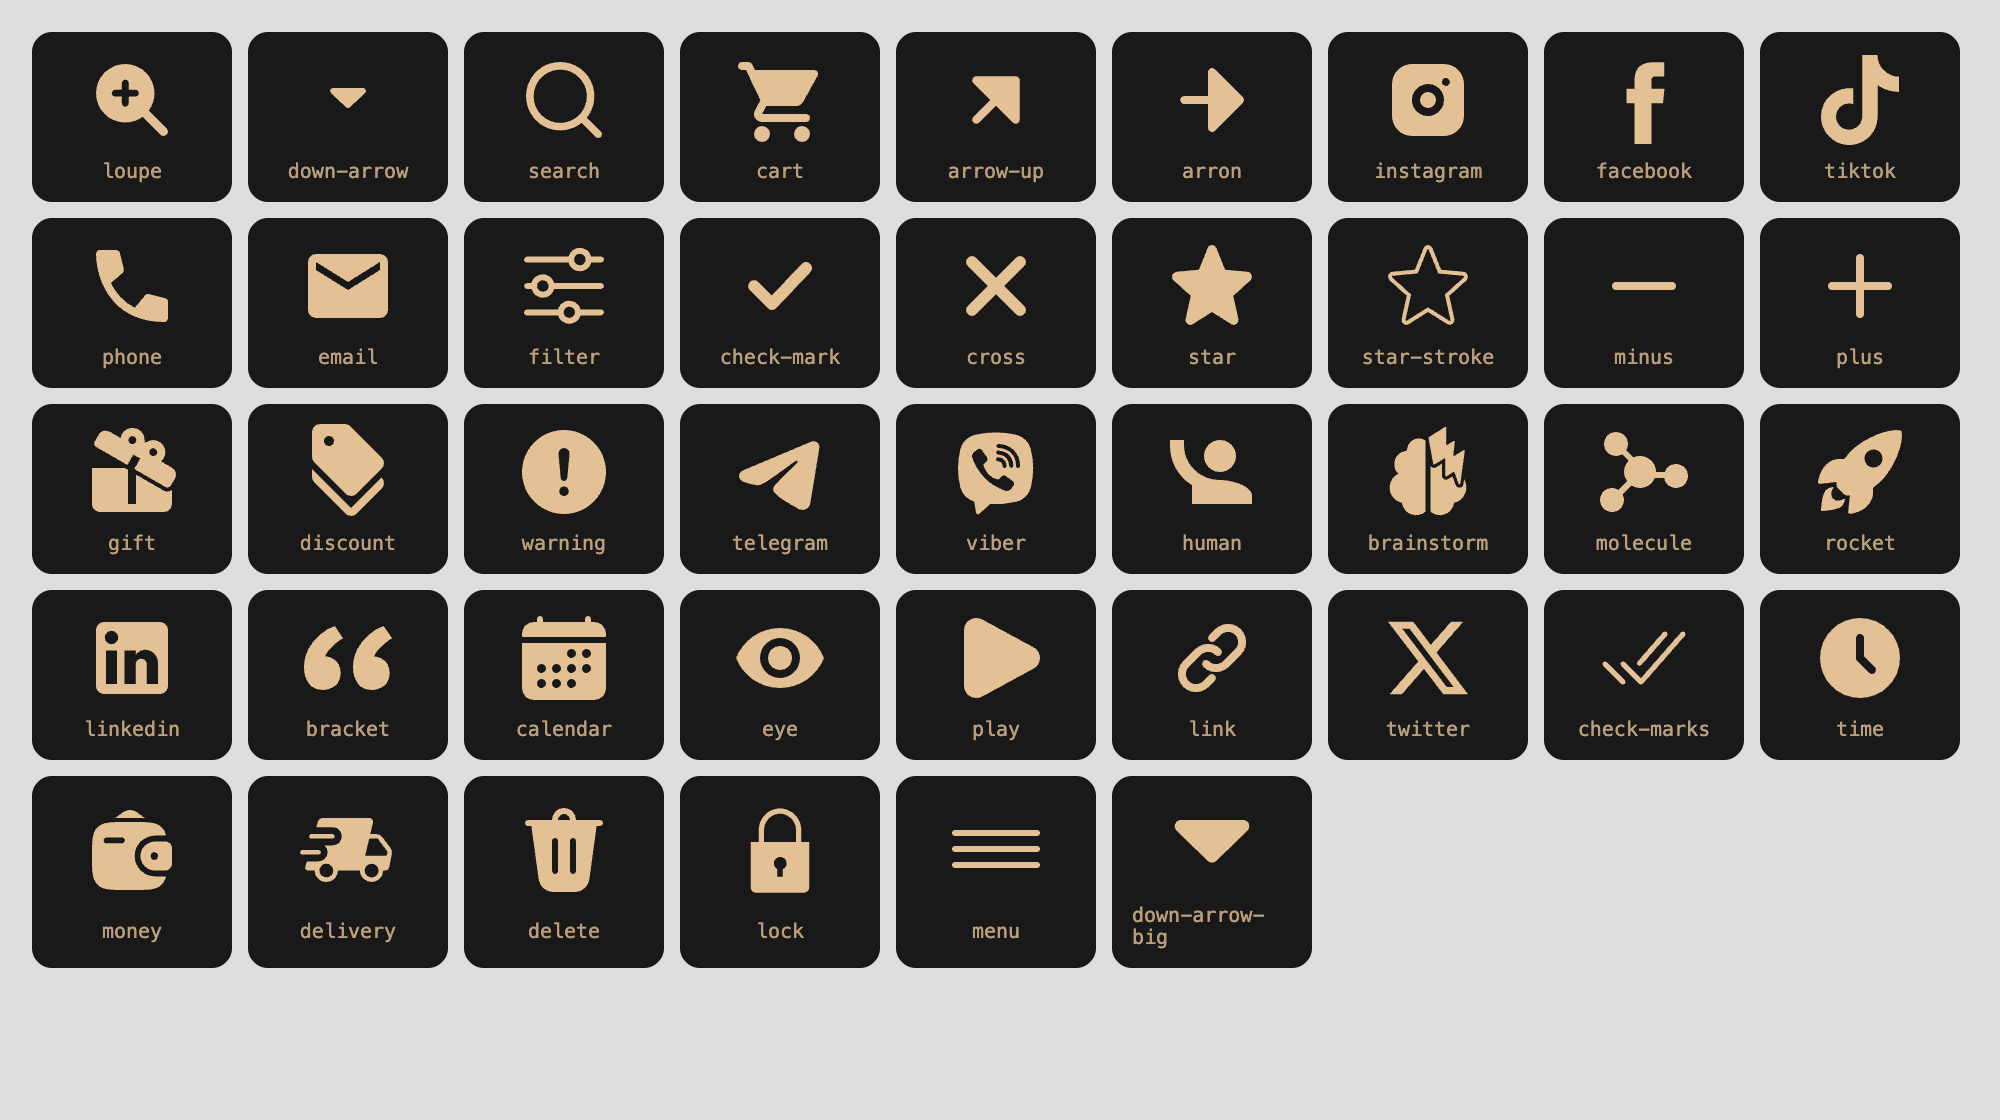
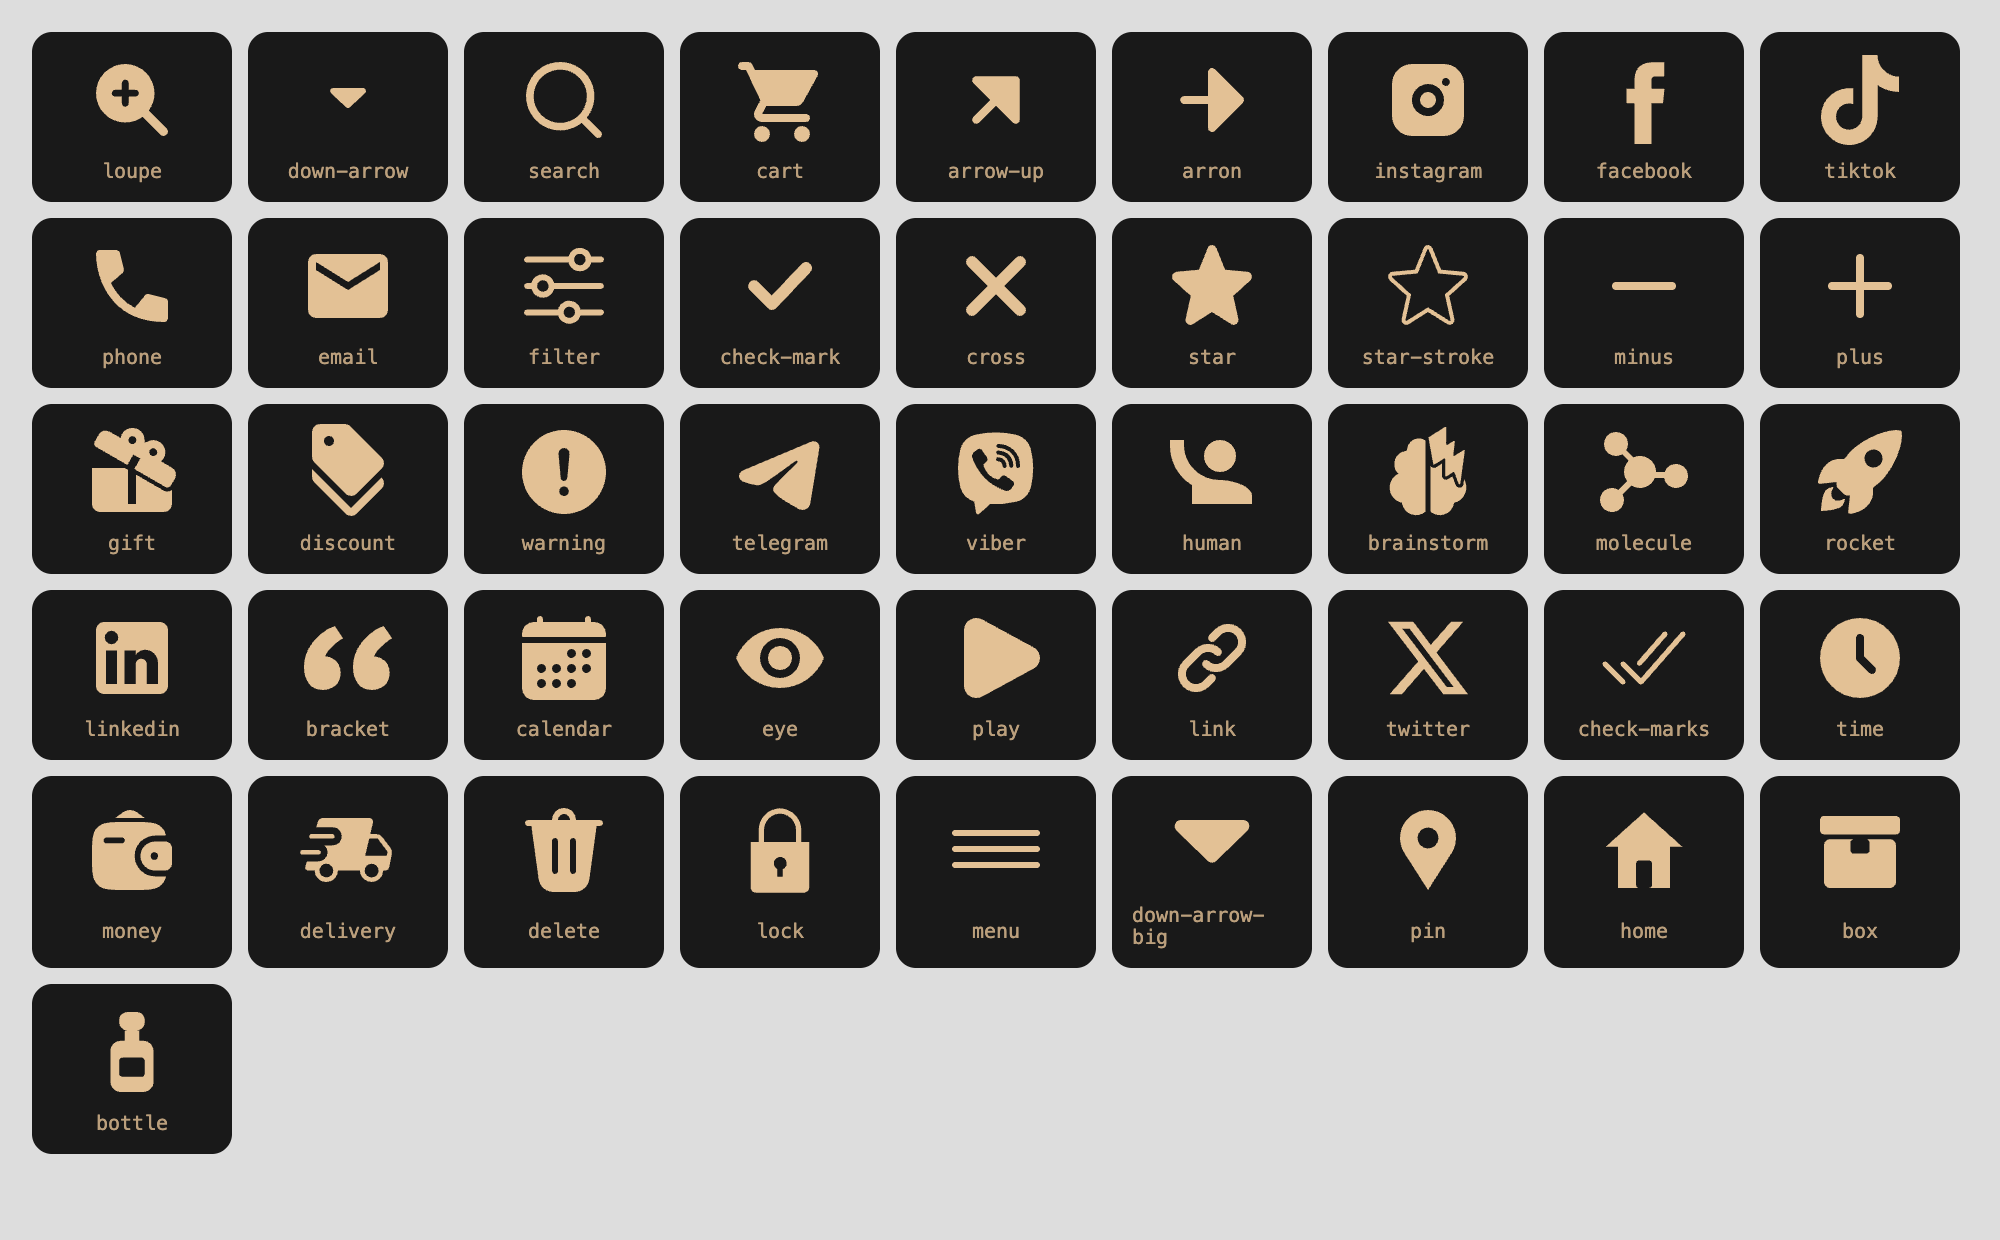
v1.5.0: чотири інтерфейсні іконки домальовано, набір ui повний
bottle (флакон), box (поштомат), pin (відділення), home (адреса): у кадрі
Icon у Figma їх нема, а магазину вони потрібні. Намальовано в стилі набору:
сплошний гліф 24×24 з полями 2 px, тієї самої маси, що кошик, вантажівка
й замок. Відтепер у сайтів GREEBZ немає причин тримати власні svg.

diff --git a/README.md b/README.md
@@ -14,7 +14,7 @@
 | `fonts/*.woff2` | самі шрифти, канонічні копії |
 | `logo/logo.svg`, `logo/mark.svg` | логотип і знак |
 | `icons/brand/` | 14 брендових піктограм зі стор. 38 брендбука, кожна в трьох варіантах (див. «Іконки») |
-| `icons/ui/` | 42 інтерфейсні іконки з кадру `Icon` у Figma, 24×24, `currentColor` |
+| `icons/ui/` | 46 інтерфейсних іконок: 42 з кадру `Icon` у Figma і 4 наші в тому ж стилі, 24×24, `currentColor` |
 | `shapes.svg` | фірмова форма, 9 готових спрайтом |
 | `shape.js` | генератор фірмової форми: будує SVG-шлях з оптичною компенсацією радіусів під реальний розмір блока |
 | `brandbook/Brandbook.pdf` | джерело норми, 76 сторінок. У пакет не потрапляє |
@@ -115,7 +115,8 @@ npm i github:maxromov/greebz-design#v1.0.0
 
 ### Інтерфейсні
 
-`icons/ui/` , 42 іконки з кадру `Icon` у Figma (24.09.2026), кожна `fill="currentColor"`,
+`icons/ui/` , 42 іконки з кадру `Icon` у Figma (24.09.2026) і 4 наші в тому ж стилі, домальовані 24.09,
+бо в наборі їх нема: `bottle` (флакон), `box` (поштомат), `pin` (відділення), `home` (адреса). Кожна `fill="currentColor"`,
 колір задає CSS. Усі 24×24, крім `check-mark` і `cross` (12×12, як у макеті).
 Лист для ока: `icons/ui-sheet.png`.
 
